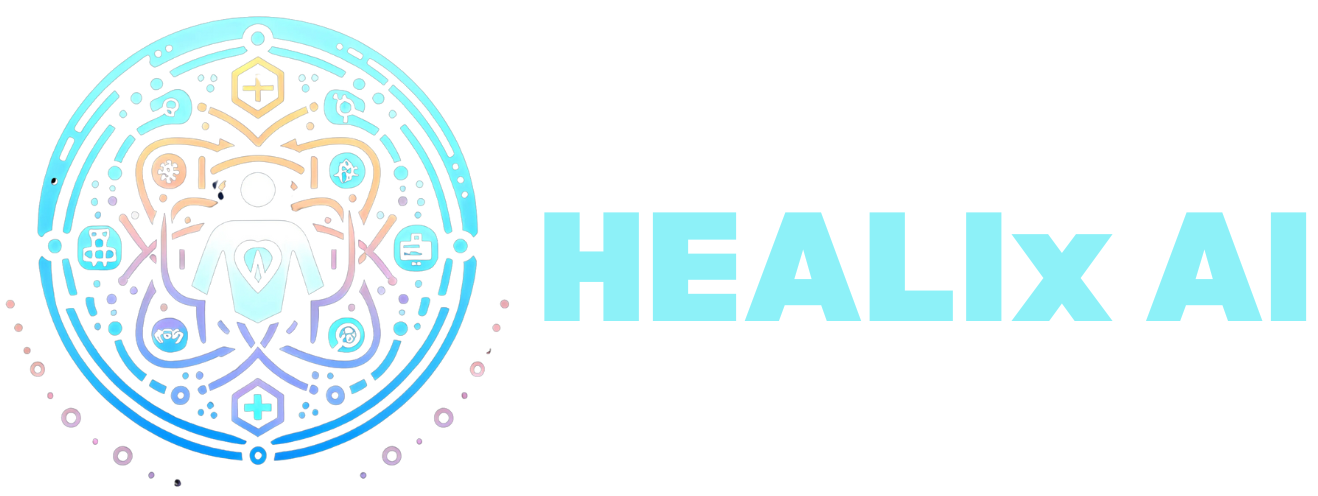
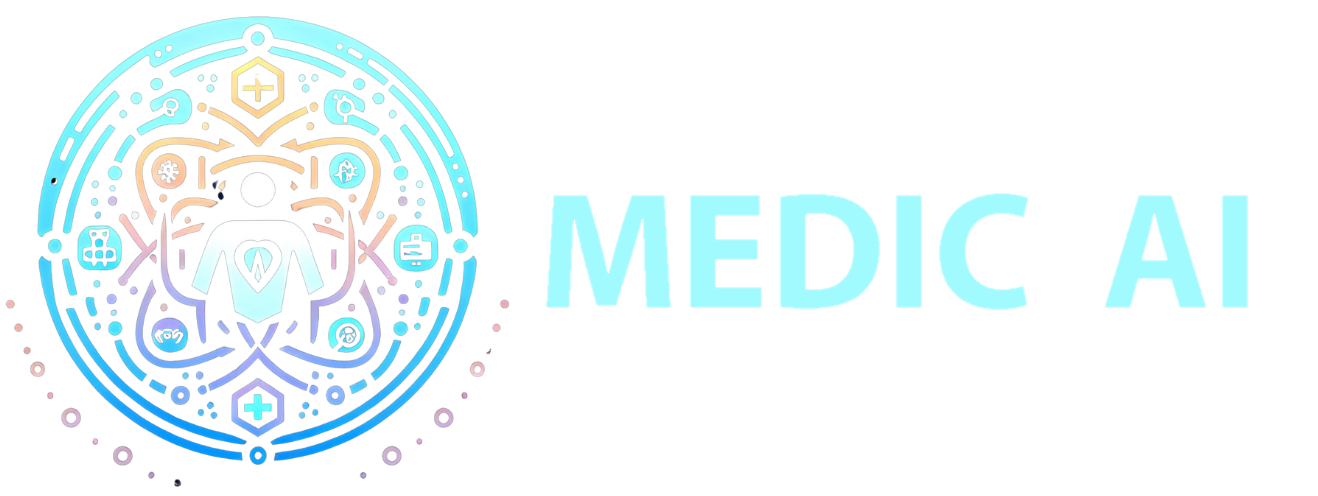
update button

Changed region(s): [[0.4044, 0.3931, 0.9954, 0.6653]]

diff --git a/index.html b/index.html
@@ -386,11 +386,11 @@
             /></a>
             <nav role="navigation" class="nav-menu bg-color w-nav-menu">
               <a
-                href="https://healixai.gitbook.io/healix-ai-whitepaper"
+                href="https://sorojins-organization.gitbook.io/medic-ai"
                 class="nav-link w-nav-link"
                 >whitepaper</a
               ><a
-                href="https://t.me/HealixAi"
+                href="https://t.me/MedicAI_ETH"
                 target="_blank"
                 class="button-primary small-cta"
                 >Join Community</a
@@ -444,7 +444,7 @@
               ><a href="/ecosystem" class="nav-link w-nav-link">Ecosystem</a
               ><a href="/about" class="nav-link w-nav-link">About</a
               ><a
-                href="https://t.me/HealixAi"
+                href="https://t.me/MedicAI_ETH"
                 target="_blank"
                 class="button-primary small-cta"
                 >Join Community</a
@@ -477,11 +477,11 @@
             </div>
             <div class="cta-container">
               <a
-                href="https://t.me/HealixAi"
+                href="https://medic-ai-org-app.vercel.app/"
                 target="_blank"
                 class="button-primary"
               >
-                <div class="text">Launch Healix AI</div>
+                <div class="text">Launch App</div>
                 <img
                   src="/6553a47b7cee77d6e1f583d5/656b83b53a3f6e1cc002ec00_narrow.svg"
                   loading="lazy"
@@ -490,11 +490,11 @@
                   class="vectors-wrapper"
                 /> </a
               ><a
-                href="#"
+                href="https://sorojins-organization.gitbook.io/medic-ai"
                 target="_blank"
                 class="button-secondary w-inline-block"
               >
-                <div class="text-block triger">Explore $HAI</div>
+                <div class="text-block triger">Read Docs</div>
               </a>
             </div>
           </div>
@@ -682,11 +682,11 @@
                 data-w-id="f4a325f3-99a9-59fd-da2f-e038dab2d206"
                 class="regular-large section2-txt"
               >
-                Healix AI revolutionizes healthcare by leveraging decentralized
+              Medic AI revolutionizes healthcare by leveraging decentralized
                 science and advanced artificial intelligence to provide instant
                 health diagnoses, personalized treatments, and tailored wellness
                 plans. From analyzing symptoms to recommending diets and yoga
-                routines, Healix AI empowers you to take control of your health
+                routines, Medic AI empowers you to take control of your health
                 with precision, privacy, and innovation.
                 <span class="text-span-7"
                   ><br />We power the future of AI
@@ -942,7 +942,7 @@
                 </div>
                 <div class="description_container description-container2">
                   <div class="regular-large margin">
-                    Healix AI combines cutting-edge technology and decentralized
+                    Medic AI combines cutting-edge technology and decentralized
                     innovation to deliver instant health insights, tailored
                     guidance, and a holistic approach to well-being.
                   </div>
@@ -1047,7 +1047,7 @@
                 class="description_container description-container2"
               >
                 <div class="regular-large">
-                  Healix AI combines cutting-edge technology and decentralized
+                  Medic AI combines cutting-edge technology and decentralized
                   innovation to deliver instant health insights, tailored
                   guidance, and a holistic approach to well-being.
                 </div>
@@ -1187,7 +1187,7 @@
                   class="title_container test"
                 >
                   <div class="h2 alr">
-                    AI-Driven Health Using Healix AI<br /><span
+                    AI-Driven Health Using Medic AI<br /><span
                       class="text-span"
                       >Yoga, and Diet Plans</span
                     >
@@ -1208,7 +1208,7 @@
                   class="description_container description-container2 tr"
                 >
                   <div class="regular-large rig">
-                    Read about Healix AI key features
+                    Read about Medic AI key features
                   </div>
                 </div>
               </div>
@@ -1328,13 +1328,13 @@
       <div class="title_wrap mobile-padding">
         <div class="title_container">
           <div class="h2 text_fix">
-            AI-Driven Health Using Healix AI<span class="text-span-2">
+            AI-Driven Health Using Medic AI<span class="text-span-2">
               <br />Yoga, and Diet Plans</span
             >
           </div>
         </div>
         <div class="description_container description-container2">
-          <div class="regular-large">Read about Healix AI key features</div>
+          <div class="regular-large">Read about Medic AI key features</div>
         </div>
       </div>
       <div class="accordion_wrapper">
@@ -1509,13 +1509,13 @@
             </div>
           </div>
           <div class="header-wrap mb-50">
-            <h1 class="h1 pl-20">Join Healix AI</h1>
+            <h1 class="h1 pl-20">Join Medic AI</h1>
             <h1 class="h1 pl-20">Today</h1>
           </div>
         </div>
         <div class="cta-container padding-bottom">
           <a
-            href="https://t.me/HealixAi"
+            href="https://t.me/MedicAI_ETH"
             target="_blank"
             class="button-primary"
           >
@@ -1529,7 +1529,7 @@
               class="vectors-wrapper"
             /> </a
           ><a
-            href="https://healixai.gitbook.io/healix-ai-whitepaper"
+            href="https://sorojins-organization.gitbook.io/medic-ai"
             target="_blank"
             class="button-secondary w-inline-block"
           >
@@ -1555,9 +1555,9 @@
               class="image-6"
             />
             <div class="footer-brand-txt footer-brand-txt2">
-              Healix AI revolutionizes healthcare by leveraging artificial
+              Medic AI revolutionizes healthcare by leveraging artificial
               intelligence to provide instant personalized wellness plans. From
-              recommending diets and yoga routines, Healix AI empowers you to
+              recommending diets and yoga routines, Medic AI empowers you to
               take control of your health with precision, privacy, and
               innovation.
             </div>
@@ -1567,23 +1567,14 @@
               id="w-node-_2e39c18b-f388-51bf-835d-47339eb53731-9eb53727"
               class="footer-block"
             >
-              <div class="title-small">Contact</div>
+              <div class="title-small">Contacts</div>
               <div class="div-block">
-                <img
-                  src="/6553a47b7cee77d6e1f583d5/656dff50602ffb5a8e8d97a4_Mail.svg"
-                  loading="lazy"
-                  alt=""
-                  class="mail-icon"
-                /><a
-                  aria-label="marketing@healixai.tech"
-                  href="/cdn-cgi/l/email-protection#d4b9b5a6bfb1a0bdbab394bcb1b5b8bdacb5bdfaa0b1b7bc"
+                <a
+                  aria-label="marketing@medicai.tech"
+                  href="https://app.uniswap.org/#/swap?inputCurrency=eth&outputCurrency=0x00000000000000000000000000000000000000"
                   target="_blank"
                   class="footer-link"
-                  ><span
-                    class="__cf_email__"
-                    data-cfemail="721f13001917061b1c15321a17131e1b0a131b5c0617111a"
-                    >[email&#160;protected]</span
-                  ></a
+                  >Uniswap</a
                 >
               </div>
             </div>
@@ -1591,29 +1582,8 @@
               <div class="title-small">Social</div>
               <div class="footer-social-block">
                 <a
-                  aria-label="discord"
-                  href="#"
-                  target="_blank"
-                  class="footer-social-link w-inline-block"
-                  ><img
-                    src="/6553a47b7cee77d6e1f583d5/656dff5005383eaa3083bfa5_discord-icon.svg"
-                    loading="lazy"
-                    width="10"
-                    alt=""
-                    class="image-5 footer-icon" /></a
-                ><a
-                  aria-label="linked in"
-                  href="#"
-                  target="_blank"
-                  class="footer-social-link w-inline-block"
-                  ><img
-                    src="/6553a47b7cee77d6e1f583d5/656dff508e15f4583b116134_LinkedIn-icon.svg"
-                    loading="lazy"
-                    alt=""
-                    class="footer-icon" /></a
-                ><a
                   aria-label="x platform"
-                  href="https://x.com/Healix__AI"
+                  href="https://x.com/MedicAI_ETH"
                   target="_blank"
                   class="footer-social-link w-inline-block"
                   ><img
@@ -1623,7 +1593,7 @@
                     class="footer-icon" /></a
                 ><a
                   aria-label="telegram"
-                  href="https://t.me/HealixAi"
+                  href="https://t.me/MedicAI_ETH"
                   target="_blank"
                   class="footer-social-link w-inline-block"
                   ><img
@@ -1636,7 +1606,7 @@
             </div>
           </div>
         </div>
-        <div class="footer-copyright-center">Copyright © 2024 Healix AI</div>
+        <div class="footer-copyright-center">Copyright © 2024 Medic AI</div>
       </div>
     </footer>
     <script
